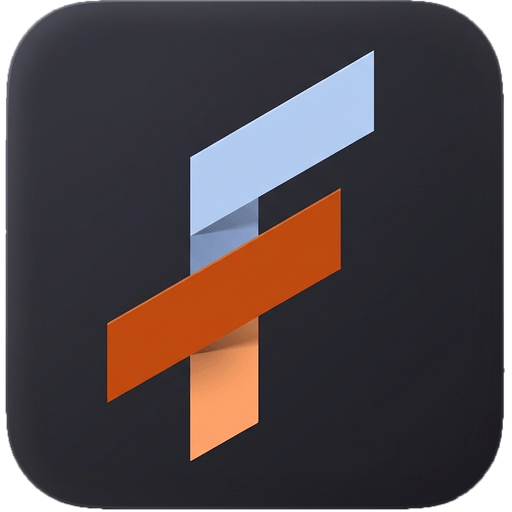
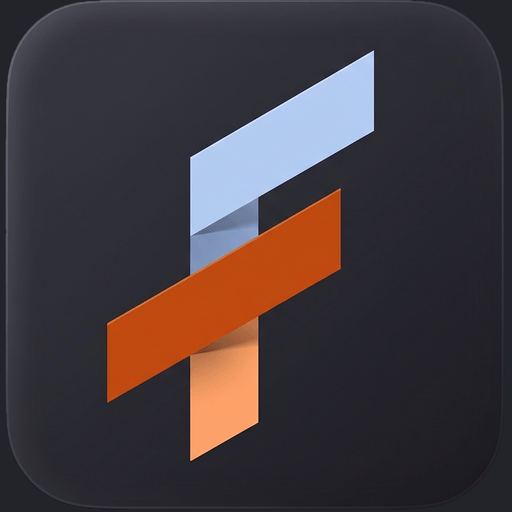
fix(ui): correcao da sidebar desktop e atalho inteirico sem frestas no iphone
- Sidebar: corrigido fundo branco em botoes inativos colapsados via reset transparente e centralizacao 44x44px

- Layout desktop: fixacao de sidebar e topbar no 100vh com rolagem suave na content-area (fim do scroll de menu)

- Header sidebar: substituido F generico pelo logo oficial FINTHIGAS

- PWA iOS: apple-touch-icon achatado em fundo solido #23242a, eliminando frestas brancas causadas pelo corte do Safari

Changed region(s): [[0.0, 0.0, 1.0, 1.0]]

diff --git a/src/index.css b/src/index.css
@@ -79,6 +79,8 @@ button {
   cursor: pointer;
   border: none;
   outline: none;
+  background: transparent;
+  color: inherit;
   transition: all var(--transition-fast);
 }
 
@@ -135,12 +137,23 @@ select option {
 /* ================================
    LAYOUT COMPONENTS
 ================================ */
+/* ================================
+   LAYOUT COMPONENTS
+================================ */
 .layout-wrapper {
   display: flex;
   min-height: 100vh;
   width: 100%;
   max-width: 100vw;
   overflow-x: hidden;
+}
+
+@media (min-width: 769px) {
+  .layout-wrapper {
+    height: 100vh;
+    max-height: 100vh;
+    overflow: hidden;
+  }
 }
 
 /* Sidebar */
@@ -152,9 +165,11 @@ select option {
   flex-direction: column;
   transition: width var(--transition-normal);
   z-index: 50;
-  position: sticky;
-  top: 0;
+  position: relative;
   height: 100vh;
+  max-height: 100vh;
+  flex-shrink: 0;
+  overflow: hidden;
 }
 
 .sidebar.collapsed {
@@ -168,6 +183,13 @@ select option {
   padding: 0 20px;
   border-bottom: 1px solid var(--border-color);
   justify-content: space-between;
+  flex-shrink: 0;
+  transition: padding var(--transition-normal);
+}
+
+.sidebar.collapsed .sidebar-header {
+  padding: 0;
+  justify-content: center;
 }
 
 .sidebar-brand {
@@ -182,6 +204,11 @@ select option {
   white-space: nowrap;
 }
 
+.sidebar.collapsed .sidebar-brand {
+  justify-content: center;
+  gap: 0;
+}
+
 .sidebar.collapsed .sidebar-brand-text {
   display: none;
 }
@@ -192,6 +219,14 @@ select option {
   flex-direction: column;
   gap: 8px;
   flex: 1;
+  overflow-y: auto;
+  overflow-x: hidden;
+}
+
+.sidebar.collapsed .sidebar-nav {
+  padding: 16px 8px;
+  align-items: center;
+  gap: 10px;
 }
 
 .nav-item {
@@ -202,20 +237,26 @@ select option {
   border-radius: var(--radius-md);
   color: var(--text-secondary);
   font-weight: 500;
+  background: transparent;
+  border: 1px solid transparent;
   transition: all var(--transition-fast);
   cursor: pointer;
   white-space: nowrap;
   overflow: hidden;
+  width: 100%;
+  text-align: left;
 }
 
 .nav-item:hover {
   color: var(--text-primary);
-  background-color: rgba(255, 255, 255, 0.03);
+  background-color: rgba(255, 255, 255, 0.04);
+  border-color: rgba(255, 255, 255, 0.06);
 }
 
 .nav-item.active {
   color: var(--accent-primary);
-  background-color: rgba(243, 112, 30, 0.08);
+  background-color: rgba(243, 112, 30, 0.10);
+  border-color: rgba(243, 112, 30, 0.20);
   border-left: 3px solid var(--accent-primary);
 }
 
@@ -229,11 +270,26 @@ select option {
 
 .sidebar.collapsed .nav-item {
   justify-content: center;
-  padding: 12px;
+  width: 44px;
+  height: 44px;
+  padding: 0;
+  margin: 0 auto;
+  border-radius: var(--radius-md);
+  background: transparent;
+  border: 1px solid transparent;
+}
+
+.sidebar.collapsed .nav-item:hover {
+  background-color: rgba(255, 255, 255, 0.05);
+  color: var(--text-primary);
+  border-color: rgba(255, 255, 255, 0.08);
 }
 
 .sidebar.collapsed .nav-item.active {
-  border-left: none;
+  background-color: rgba(243, 112, 30, 0.15);
+  border: 1px solid rgba(243, 112, 30, 0.35);
+  border-left: 1px solid rgba(243, 112, 30, 0.35);
+  color: var(--accent-primary);
 }
 
 /* Offcanvas (Mobile) */
@@ -253,6 +309,7 @@ select option {
     left: 0;
     bottom: 0;
     transform: translateX(-100%);
+    height: 100vh;
   }
   .sidebar.open {
     transform: translateX(0);
@@ -271,6 +328,14 @@ select option {
   width: 100%;
   max-width: 100%;
   overflow-x: hidden;
+}
+
+@media (min-width: 769px) {
+  .main-wrapper {
+    height: 100vh;
+    max-height: 100vh;
+    overflow: hidden;
+  }
 }
 
 /* Topbar */
@@ -892,6 +957,7 @@ select option {
   margin-top: auto;
   padding: 12px;
   border-top: 1px solid var(--border-color);
+  flex-shrink: 0;
 }
 
 .sidebar-collapse-btn {
@@ -904,7 +970,7 @@ select option {
   font-size: 0.85rem;
   font-weight: 500;
   background: transparent;
-  border: none;
+  border: 1px solid transparent;
   width: 100%;
   cursor: pointer;
   transition: all var(--transition-fast);
@@ -915,11 +981,25 @@ select option {
 .sidebar-collapse-btn:hover {
   color: var(--text-primary);
   background: rgba(255, 255, 255, 0.04);
+  border-color: rgba(255, 255, 255, 0.06);
+}
+
+.sidebar.collapsed .sidebar-footer {
+  padding: 12px 0;
+  display: flex;
+  justify-content: center;
 }
 
 .sidebar.collapsed .sidebar-collapse-btn {
   justify-content: center;
-  padding: 10px;
+  width: 44px;
+  height: 44px;
+  padding: 0;
+  margin: 0 auto;
+}
+
+.sidebar.collapsed .sidebar-collapse-btn .nav-item-label {
+  display: none;
 }
 
 /* desktop-only helper — hides on mobile (sidebar already uses fixed/offcanvas) */

diff --git a/src/components/Layout/Sidebar.tsx b/src/components/Layout/Sidebar.tsx
@@ -29,14 +29,17 @@ export const Sidebar: React.FC<SidebarProps> = ({
       <aside className={`sidebar ${isOpen ? 'open' : ''} ${isCollapsed ? 'collapsed' : ''}`}>
         <div className="sidebar-header">
           <div className="sidebar-brand">
-            <div style={{
-              width: '32px', height: '32px', borderRadius: '8px',
-              background: 'linear-gradient(135deg, var(--accent-primary), var(--accent-secondary))',
-              display: 'flex', alignItems: 'center', justifyContent: 'center',
-              color: 'white', fontWeight: 'bold', fontSize: '1rem', flexShrink: 0
-            }}>
-              F
-            </div>
+            <img
+              src="/icon-192.png"
+              alt="FINTHIGAS"
+              style={{
+                width: '32px',
+                height: '32px',
+                borderRadius: '8px',
+                objectFit: 'contain',
+                flexShrink: 0,
+              }}
+            />
             <span className="sidebar-brand-text">FINTHIGAS</span>
           </div>
           {isOpen && (
@@ -96,7 +99,7 @@ export const Sidebar: React.FC<SidebarProps> = ({
               ? <PanelLeftOpen size={18} />
               : <PanelLeftClose size={18} />
             }
-            <span className="nav-item-label">Recolher</span>
+            <span className="nav-item-label">{isCollapsed ? 'Expandir' : 'Recolher'}</span>
           </button>
         </div>
       </aside>
